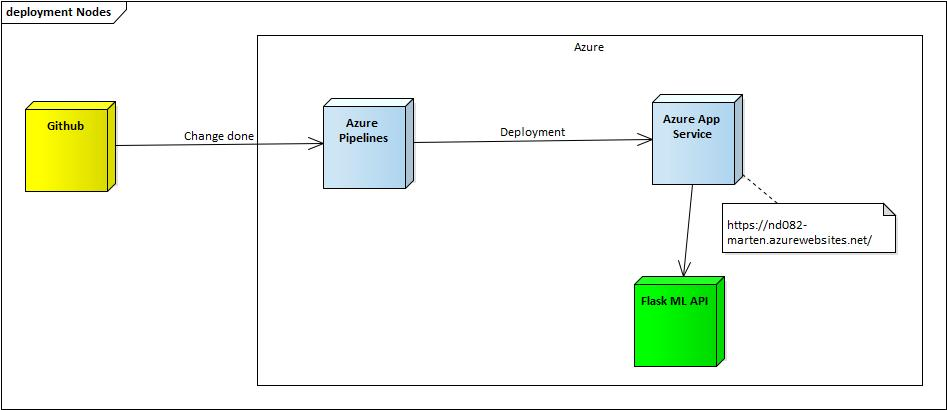
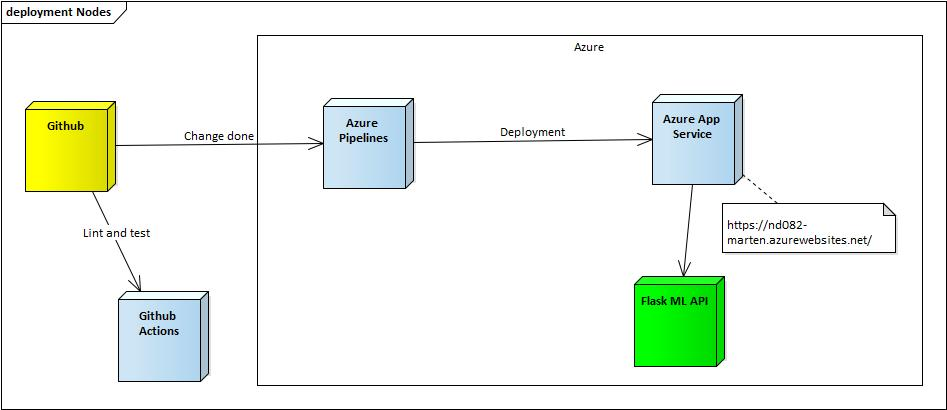
README ready, demo part to complete

Changed region(s): [[0.1225, 0.6732, 0.245, 0.9366], [0.0919, 0.5561, 0.1531, 0.5854]]

diff --git a/README.md b/README.md
@@ -92,42 +92,98 @@ If you open the web app URL, then you should see something like this:
 
 ![Screenshot of local prediction](https://github.com/m2rtenm/nd082-Azure-CI-CD/blob/main/screenshots/local_test_prediction.png?raw=true)
 
-## Configure Github Actions
+## Configuration of Github Actions
 
+### Create the Github Actions workflow
 
-<TODO:  
-* Architectural Diagram (Shows how key parts of the system work)>
+In Github go to Actions -> New workflow -> Set up a workflow yourself
 
-<TODO:  Instructions for running the Python project.  How could a user with no context run this project without asking you for any help.  Include screenshots with explicit steps to create that work. Be sure to at least include the following screenshots:
+Use this code to replace the default content of the template:
 
-* Project running on Azure App Service
+*Note:* For Python version, use at least version 3.7. In this project, version 3.9 has been used. Feel free to use a newer version.
 
-* Project cloned into Azure Cloud Shell
+```
+name: Python application test with Github Actions
 
-* Passing tests that are displayed after running the `make all` command from the `Makefile`
+on: [push]
 
-* Output of a test run
+jobs:
+  build:
 
-* Successful deploy of the project in Azure Pipelines.  [Note the official documentation should be referred to and double checked as you setup CI/CD](https://docs.microsoft.com/en-us/azure/devops/pipelines/ecosystems/python-webapp?view=azure-devops).
+    runs-on: ubuntu-latest
 
-* Running Azure App Service from Azure Pipelines automatic deployment
-
-* Successful prediction from deployed flask app in Azure Cloud Shell.  [Use this file as a template for the deployed prediction](https://github.com/udacity/nd082-Azure-Cloud-DevOps-Starter-Code/blob/master/C2-AgileDevelopmentwithAzure/project/starter_files/flask-sklearn/make_predict_azure_app.sh).
-The output should look similar to this:
-
-```bash
-udacity@Azure:~$ ./make_predict_azure_app.sh
-Port: 443
-{"prediction":[20.35373177134412]}
+    steps:
+    - uses: actions/checkout@v2
+    - name: Set up Python 3.9
+      uses: actions/setup-python@v1
+      with:
+        python-version: 3.9
+    - name: Install dependencies
+      run: |
+        make install
+    - name: Lint with pylint
+      run: |
+        make lint
+    - name: Test with pytest
+      run: |
+        make test
 ```
 
-* Output of streamed log files from deployed application
+Commit the yml file and after that, the build should contain a green mark. A successful build looks like this:
 
-> 
+![Screenshot of Github Actions](https://github.com/m2rtenm/nd082-Azure-CI-CD/blob/main/screenshots/github_actions.png?raw=true)
+
+## Configuration of Azure Pipelines
+
+For configuring Azure Pipelines, please the [official documentation](https://docs.microsoft.com/en-us/azure/devops/pipelines/ecosystems/python-webapp?view=azure-devops).
+
+The result of a successful deployment looks something like this:
+
+![Screenshot of the deployment](https://github.com/m2rtenm/nd082-Azure-CI-CD/blob/main/screenshots/deployment_success.png?raw=true)
+
+## Verifying the application
+
+The project contains a file `make_predict_azure_app.sh` which sends a POST request to the web app to return with a prediction. The response looks something like this:
+
+![Screenshot of the Azure prediction](https://github.com/m2rtenm/nd082-Azure-CI-CD/blob/main/screenshots/prediction_success.png?raw=true)
+
+### Logs for the application
+
+The following command helps to see application logs, for example the logs when the prediction has been made:
+```
+az webapp log tail -n nd082-marten
+```
+Note: Replace the -n parameter with your own App Service name that you have used for the project.
+
+The output of logs looks like this:
+![Screenshot of logs](https://github.com/m2rtenm/nd082-Azure-CI-CD/blob/main/screenshots/logs_prediction.png?raw=true)
+
+### Load testing with Locust
+
+You have several options how to install Locust. In this project, it is specified in the `requirements.txt` but you can also install it manually like this:
+
+```
+pip install locust
+```
+
+To run the locustfile.py, use the following command:
+
+```
+locust -f locustfile.py
+```
+
+Open up http://localhost:8089/ in your browser and enter the URL of the project to the host field if not filled. In the advanced options, you can also specify the duration of the load test.
+
+![Screenshot of locust page](https://github.com/m2rtenm/nd082-Azure-CI-CD/blob/main/screenshots/locust_test_start.png?raw=true)
+
+After running the load test, the results page looks like this:
+
+![Screenshot of locust results](https://github.com/m2rtenm/nd082-Azure-CI-CD/blob/main/screenshots/locust_test_results.png?raw=true)
+
 
 ## Enhancements
 
-<TODO: A short description of how to improve the project in the future>
+An option would be to use Docker and/or Kubernetes for such projects. Another idea is to implement the backend in another programming language, for example C#. Definitely there should be several other branches existing in Github to separate environments (development, staging, production etc). A verification pipeline could be an option to ensure that testing in lower environments has been successful. Only then the deployment can be made in production.
 
 ## Demo 
 
